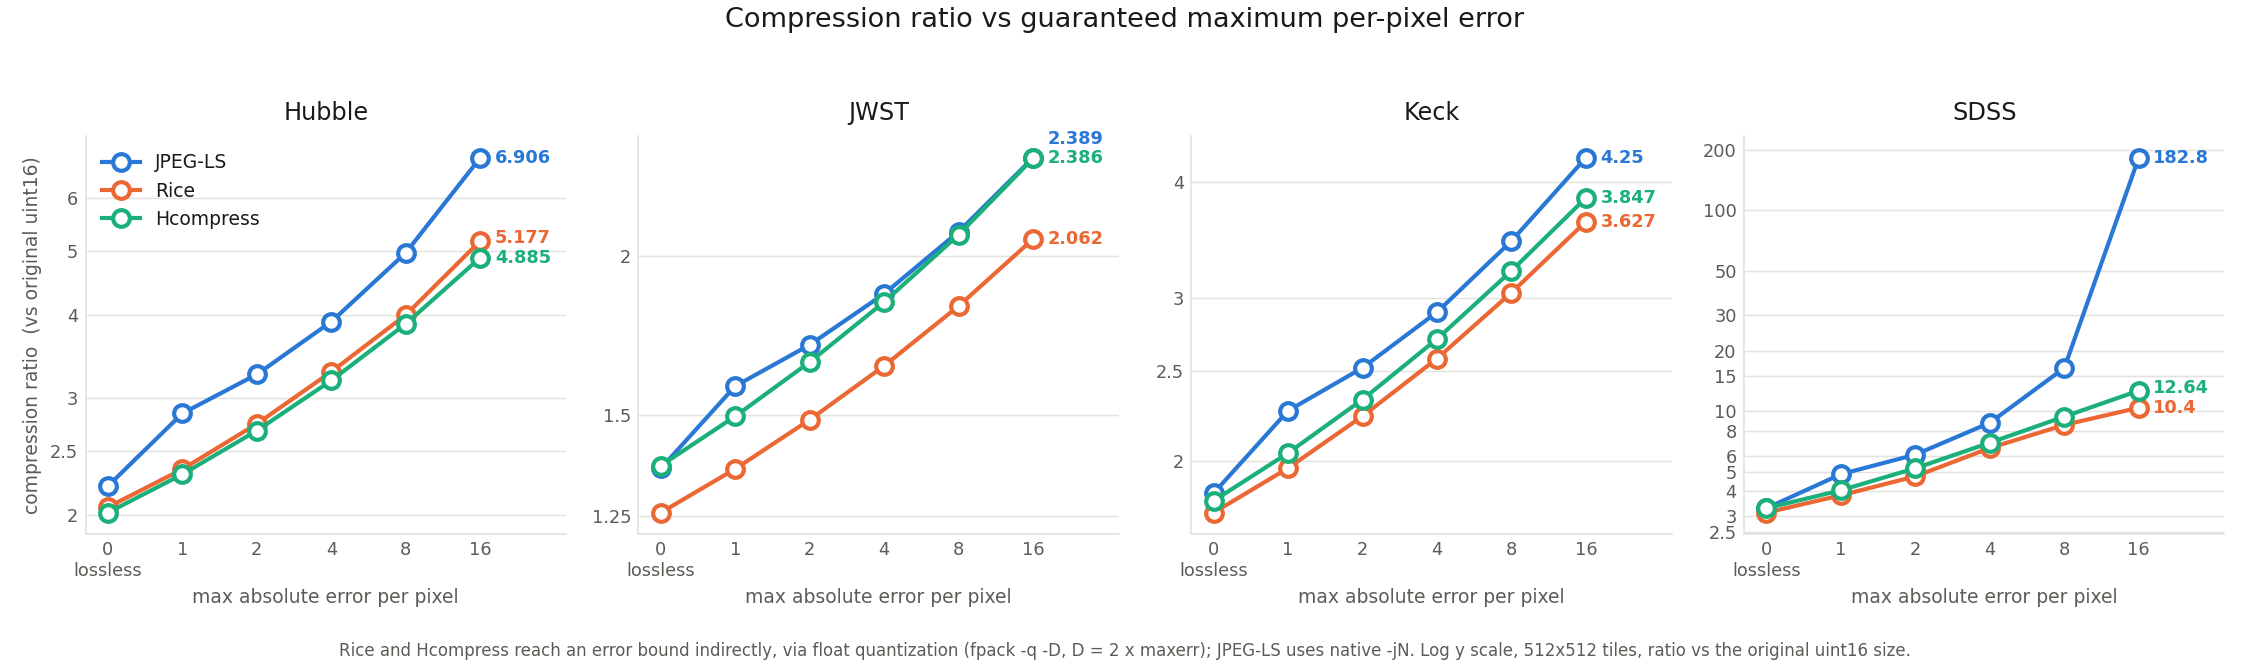
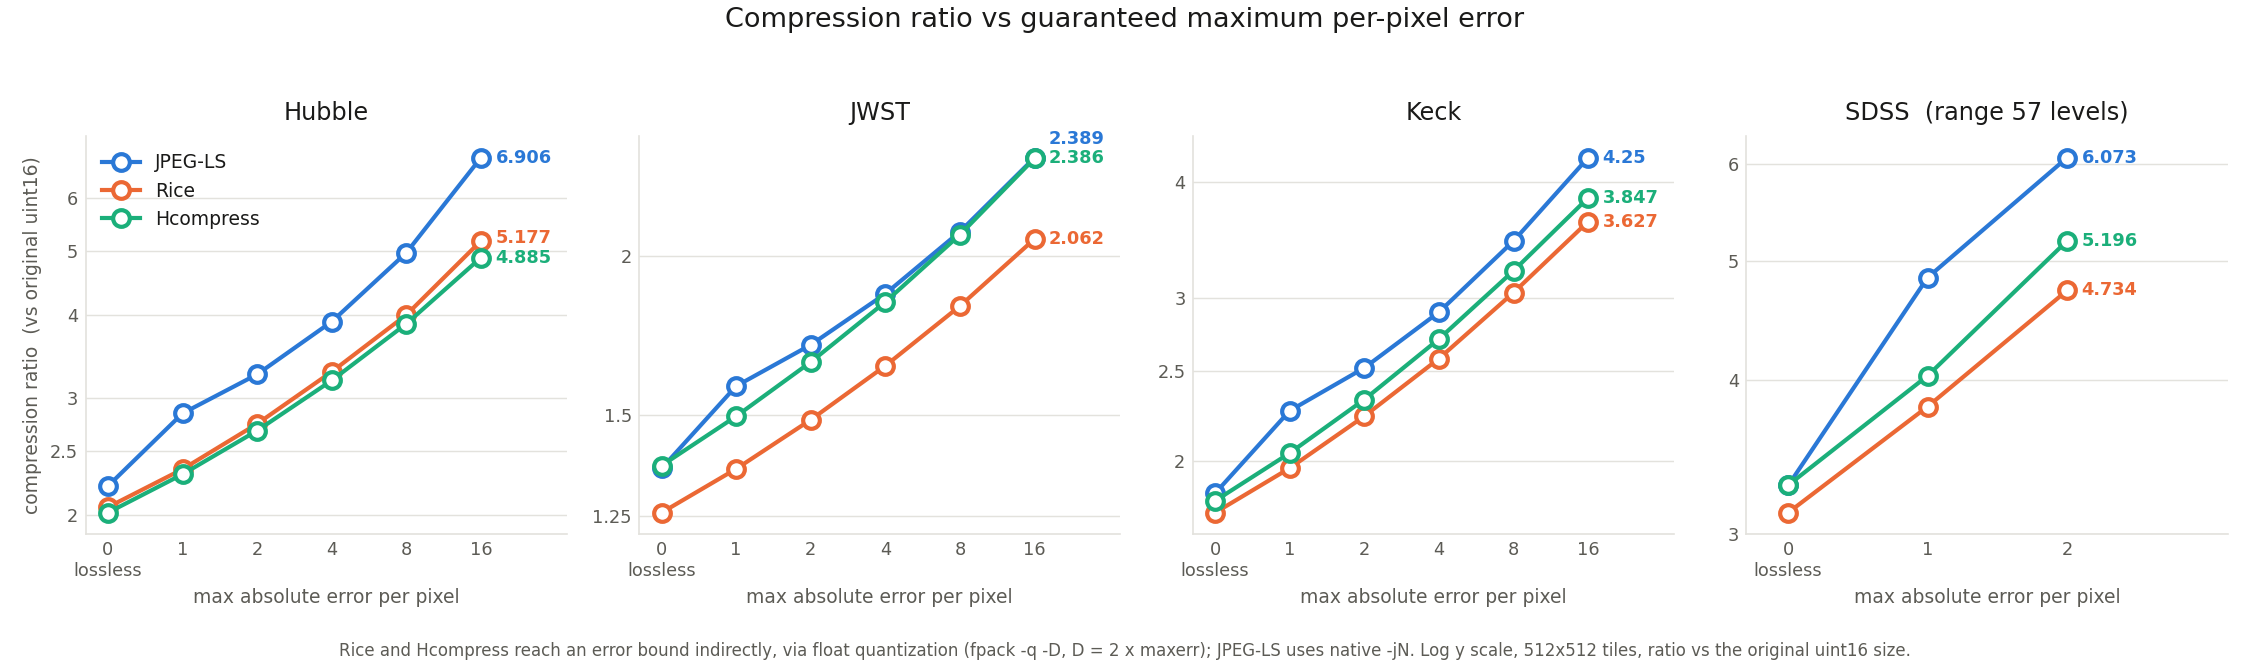
Cap SDSS near-lossless sweep at max error 2; explain K gap via tile size
SDSS spans only 57 distinct levels (sigma 5.3), so the larger error budgets
were not meaningful operating points: +/-4 is already 0.75 sigma and 14% of the
full dynamic range, and +/-16 is 3 sigma and 56% of it -- that destroys the
science content rather than trading a little of it.  Its sweep now stops at
+/-2 (0.38 sigma, 7% of range) in both the real-image table and the
near-lossless comparison, and the plot uses a per-image target list.

This removes the headline 183x figure, which was an artefact of pushing a
narrow-range image far past where "near-lossless" describes anything useful.
The README's "2-180x" claim is corrected to "2-7x at +/-16".  SDSS still shows
the widest relative gap within its valid range: 6.073x vs 5.196x for quantized
Hcompress at +/-2.

Also answers why our measured K beats the paper's.  Tile size is a large part
of it -- measured across tilings on the same synthetic images:

    tiling                    JPEG-LS   Rice   Hcompress
    row-wise (CFITSIO deflt)    0.722   1.087      0.752
    512x512                     0.722   1.007      0.666
    64x64                       1.420   1.027      0.767
    paper (Pence+2009)              --   ~1.2       ~0.8

At row-wise tiling Hcompress gives 0.752 against the paper's ~0.8, and Rice
moves from 1.007 to 1.087 against ~1.2.  So tiling explains most of the
Hcompress gap and about half of Rice's; the rest is plausibly newer CFITSIO,
[…]

diff --git a/docs/JPEGLS.md b/docs/JPEGLS.md
@@ -140,7 +140,11 @@ plus the measured maximum per-pixel error to confirm the `-jN` bound holds.
 | JPEG-LS -j8 | 3.456 | 0.151 | 0.148 | 61.0 | 10.2 | 15.7 | 8 |
 | JPEG-LS -j16 | 4.250 | 0.142 | 0.145 | 64.6 | 10.2 | 15.2 | 16 |
 
-**SDSS** — 800×800 uint16, 1.3 MB raw, σ=5.3, range [1003, 1060] (very low noise)
+**SDSS** — 800×800 uint16, 1.3 MB raw, σ=5.3, range [1003, 1060]
+
+Only 57 distinct levels, so the near-lossless sweep stops at ±2. A ±4 budget
+is already 0.75σ and 14% of the whole dynamic range; ±16 would be 3σ and 56%,
+which destroys the science content rather than trading a little of it.
 
 | config | ratio | comp s | decomp s | MB/s | peak RSS MB<br>(fpack) | peak RSS MB<br>(funpack) | max err |
 |---|---|---|---|---|---|---|---|
@@ -151,9 +155,6 @@ plus the measured maximum per-pixel error to confirm the `-jN` bound holds.
 | JPEG-LS (512×512) | 3.285 | 0.026 | 0.029 | 48.5 | 6.5 | 6.9 | 0 |
 | JPEG-LS -j1 | 4.851 | 0.032 | 0.031 | 39.9 | 7.7 | 7.7 | 1 |
 | JPEG-LS -j2 | 6.073 | 0.032 | 0.032 | 39.5 | 6.5 | 6.9 | 2 |
-| JPEG-LS -j4 | 8.747 | 0.032 | 0.032 | 40.0 | 6.4 | 7.0 | 4 |
-| JPEG-LS -j8 | 16.398 | 0.026 | 0.026 | 50.2 | 6.6 | 7.0 | 8 |
-| JPEG-LS -j16 | **182.779** | 0.019 | 0.022 | 68.7 | 6.5 | 6.9 | 16 |
 
 **Reading these tables**
 
@@ -182,9 +183,11 @@ plus the measured maximum per-pixel error to confirm the `-jN` bound holds.
   RSS at the cost of a few percent of ratio for Hcompress, and almost nothing
   for Rice. On memory-constrained hardware that may be the better operating
   point; see also the tile-size sweep in §2.3.
-- **Near-lossless**: returns grow with how noise-dominated the image is. SDSS
-  (σ=5.3) reaches **183×** at `-j16` because ±16 erases essentially all of its
-  noise. Measured max error matches `N` exactly in every case.
+- **Near-lossless**: returns grow with how noise-dominated the image is, and
+  the usable range depends on the image's dynamic range. Hubble reaches 6.9× at
+  `-j16`; SDSS spans only 57 levels, so it is swept only to ±2 (6.1×) — beyond
+  that the error is a large fraction of the signal itself. Measured max error
+  matches `N` exactly in every case.
 
 ### 2.2 Synthetic images
 
@@ -314,14 +317,15 @@ within ±E", not "how well does a codec re-compress its own padding".
 | | 4 | **2.896** | 2.580 | 2.709 | +6.9% |
 | | 8 | **3.456** | 3.040 | 3.209 | +7.7% |
 | | 16 | **4.250** | 3.627 | 3.847 | +10.5% |
-| **SDSS** | 0 (lossless) | 3.285 | 3.122 | **3.286** | −0.0% |
+| **SDSS**¹ | 0 (lossless) | 3.285 | 3.122 | **3.286** | −0.0% |
 | | 1 | **4.851** | 3.809 | 4.035 | +20.2% |
 | | 2 | **6.073** | 4.734 | 5.196 | +16.9% |
-| | 4 | **8.747** | 6.550 | 6.957 | +25.7% |
-| | 8 | **16.398** | 8.539 | 9.394 | +74.5% |
-| | 16 | **182.779** | 10.401 | 12.643 | **+1346%** |
 
 ("JPEG-LS advantage" is against the better of Rice and Hcompress at that row.)
+
+¹ SDSS spans only 57 levels (σ=5.3), so it is swept only to ±2. At ±4 the
+error is already 0.75σ; ±16 would be 3σ and 56% of the full range — past the
+point where "near-lossless" is a meaningful description.
 
 **What this shows**
 
@@ -332,10 +336,10 @@ within ±E", not "how well does a codec re-compress its own padding".
   precision inside the predictive loop, so the predictor keeps working on the
   already-quantized values. The quantization route instead coarsens the data
   *before* a codec that then has less structure left to exploit.
-- **SDSS is the extreme case**: at `-j16`, JPEG-LS reaches 183× against 12.6×
-  for quantized Hcompress. With σ=5.3, a ±16 budget lets JPEG-LS's predictor
-  collapse whole regions to a constant, while quantization merely maps 57
-  distinct levels onto 4.
+- **SDSS shows the widest relative gap** even in its restricted ±2 range:
+  6.073× against 5.196× for quantized Hcompress (+16.9%). With only 57 distinct
+  levels, JPEG-LS's predictor can collapse whole regions to a constant, while
+  quantization merely coarsens the level set.
 - **JWST is the narrow case.** JPEG-LS's lead shrinks to +0.1% at `-j16`, and
   quantized Hcompress is genuinely competitive throughout — consistent with
   JWST being the one image where Hcompress also wins losslessly.
@@ -384,9 +388,32 @@ Measured K (1024×1024 images, 512×512 tiles, lossless):
 | GZIP | 2.07 | 4.61 | much worse, noise-dependent |
 
 **Agreement with the paper.** Rice and Hcompress reproduce the published
-ordering and land close to the published values (1.01 vs ~1.2, 0.67 vs ~0.8);
-both measurements come out slightly *better* than the paper's, which is
-expected since these are newer CFITSIO implementations. GZIP reproduces the
+ordering and land close to the published values (1.01 vs ~1.2, 0.67 vs ~0.8).
+Both come out slightly *better* than the paper's, and **tile size accounts for
+much of that difference.** Our K was measured at 512×512, whereas stock CFITSIO
+defaults to row-wise tiles. Re-measuring K across tilings:
+
+| tiling | JPEG-LS | Rice | Hcompress |
+|---|---|---|---|
+| row-wise (CFITSIO default) | 0.722 | **1.087** | **0.752** |
+| 512×512 | 0.722 | 1.007 | 0.666 |
+| 256×256 | 0.774 | 1.008 | 0.671 |
+| 64×64 | 1.420 | 1.027 | 0.767 |
+| *paper (Pence+2009)* | *—* | *~1.2* | *~0.8* |
+
+Larger tiles amortise per-tile header and predictor-restart overhead, so K
+falls. At row-wise tiling Hcompress gives K = 0.752, essentially the paper's
+~0.8, and Rice moves from 1.007 to 1.087 against the paper's ~1.2. So tiling
+explains most of the Hcompress gap and roughly half of Rice's; the remainder is
+plausibly fifteen years of CFITSIO refinement, different source images, and the
+paper quoting round figures. This is a partial explanation, not a controlled
+reproduction — the paper does not state its tiling, so the comparison above is
+indicative rather than conclusive.
+
+(JPEG-LS's row entry is identical to its 512×512 entry because this fork
+*defaults* JPEG-LS to 512×512 — it has no row-wise mode. Its sharp degradation
+at 64×64, K 0.722 → 1.420, shows how much it depends on having enough rows
+above each pixel to predict from.) GZIP reproduces the
 paper's qualitative finding exactly: much larger K, and strongly dependent on
 the noise distribution (K spans 1.85–2.38 between the two synthetic sets,
 versus ±0.08 for Rice), because it treats each byte of a 16-bit pixel as an

diff --git a/README.md b/README.md
@@ -6,7 +6,7 @@
 > *near-lossless* compression with a guaranteed per-pixel error bound.
 >
 > On real telescope images JPEG-LS compresses **3–8% better than Rice**
-> losslessly, and near-lossless mode reaches **2–180×** depending on how
+> losslessly, and near-lossless mode reaches **2–7×** at ±16 depending on how
 > noise-dominated the image is. See [docs/JPEGLS.md](docs/JPEGLS.md) for the
 > full benchmarks, methodology and a reproduction of the Pence et al. (2009)
 > compression-efficiency analysis.
